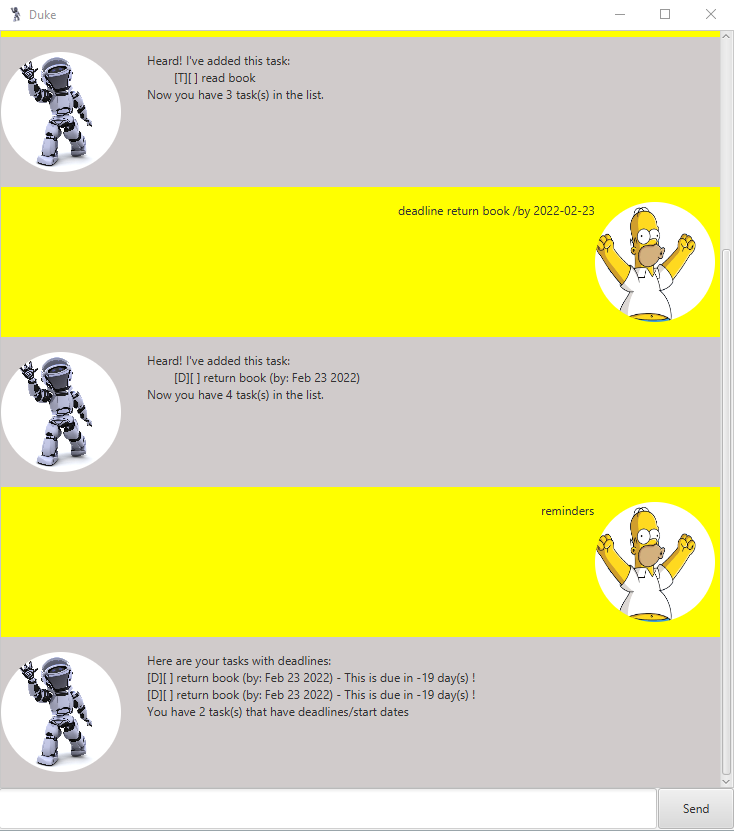
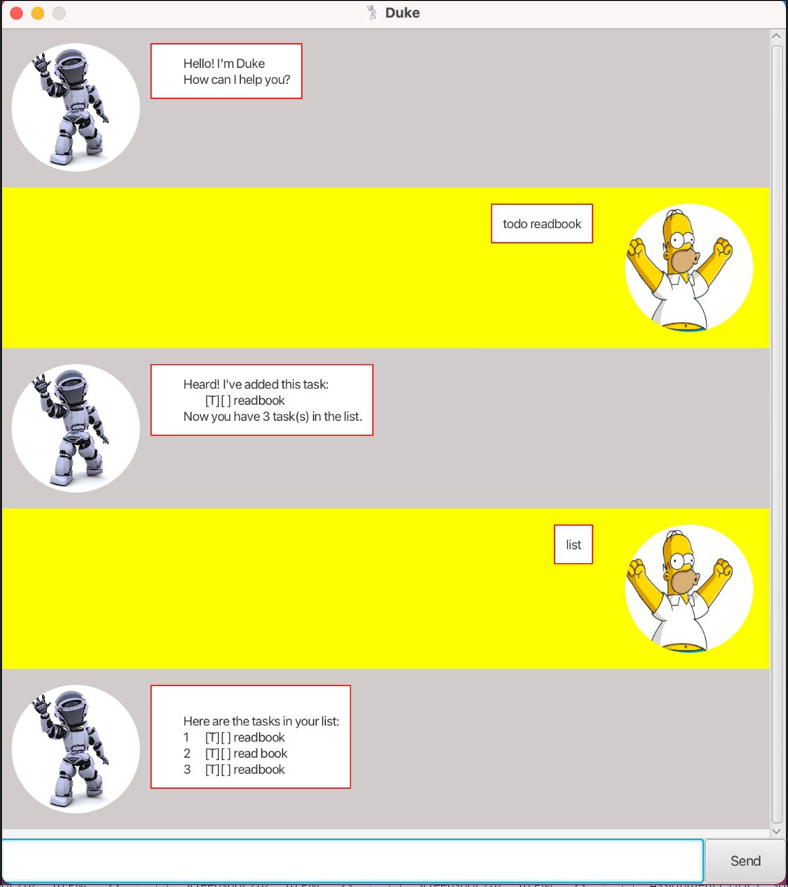
Update Ui.png and clean code.
Duke's UI is currently very plain.

Lets improve the UI and clean the code up.

Changed region(s): [[0.0, 0.0, 1.0, 1.0]]

diff --git a/src/main/java/duke/Main.java b/src/main/java/duke/Main.java
@@ -9,6 +9,7 @@ import javafx.scene.image.Image;
 import javafx.scene.layout.AnchorPane;
 import javafx.stage.Stage;
 
+
 /**
  * A GUI for Duke using FXML.
  */
@@ -30,6 +31,7 @@ public class Main extends Application {
             Scene scene = new Scene(ap);
             Image icon = new Image("/images/testDuke.png");
             stage.setTitle("Duke");
+            stage.setResizable(false);
             stage.getIcons().add(icon);
             stage.setScene(scene);
             fxmlLoader.<MainWindow>getController().setDuke(duke);

diff --git a/src/main/java/duke/tasks/ToDo.java b/src/main/java/duke/tasks/ToDo.java
@@ -4,6 +4,11 @@ package duke.tasks;
  * ToDo is a task with just a description.
  */
 public class ToDo extends Task {
+    /**
+     * A constructor for ToDo.
+     * @param description Description of task.
+     * @param isDone Completion status of task.
+     */
     public ToDo(String description, Boolean isDone) {
         super(description, isDone);
     }

diff --git a/src/main/java/duke/DialogBox.java b/src/main/java/duke/DialogBox.java
@@ -47,6 +47,7 @@ public class DialogBox extends HBox {
         }
         myCircle.setFill(new ImagePattern(img));
         dialog.setText(text);
+        dialog.setStyle("-fx-padding: 10; -fx-border-color:red; -fx-background-color: white;");
 
     }
 

diff --git a/src/main/java/duke/Duke.java b/src/main/java/duke/Duke.java
@@ -14,7 +14,7 @@ import javafx.scene.image.Image;
 import javafx.stage.Stage;
 
 /**
- * Duke is a personal chatbot that tracks tasks to do.
+ * Duke is a personal chatBot that tracks tasks to do.
  */
 public class Duke {
     private Storage storage;
